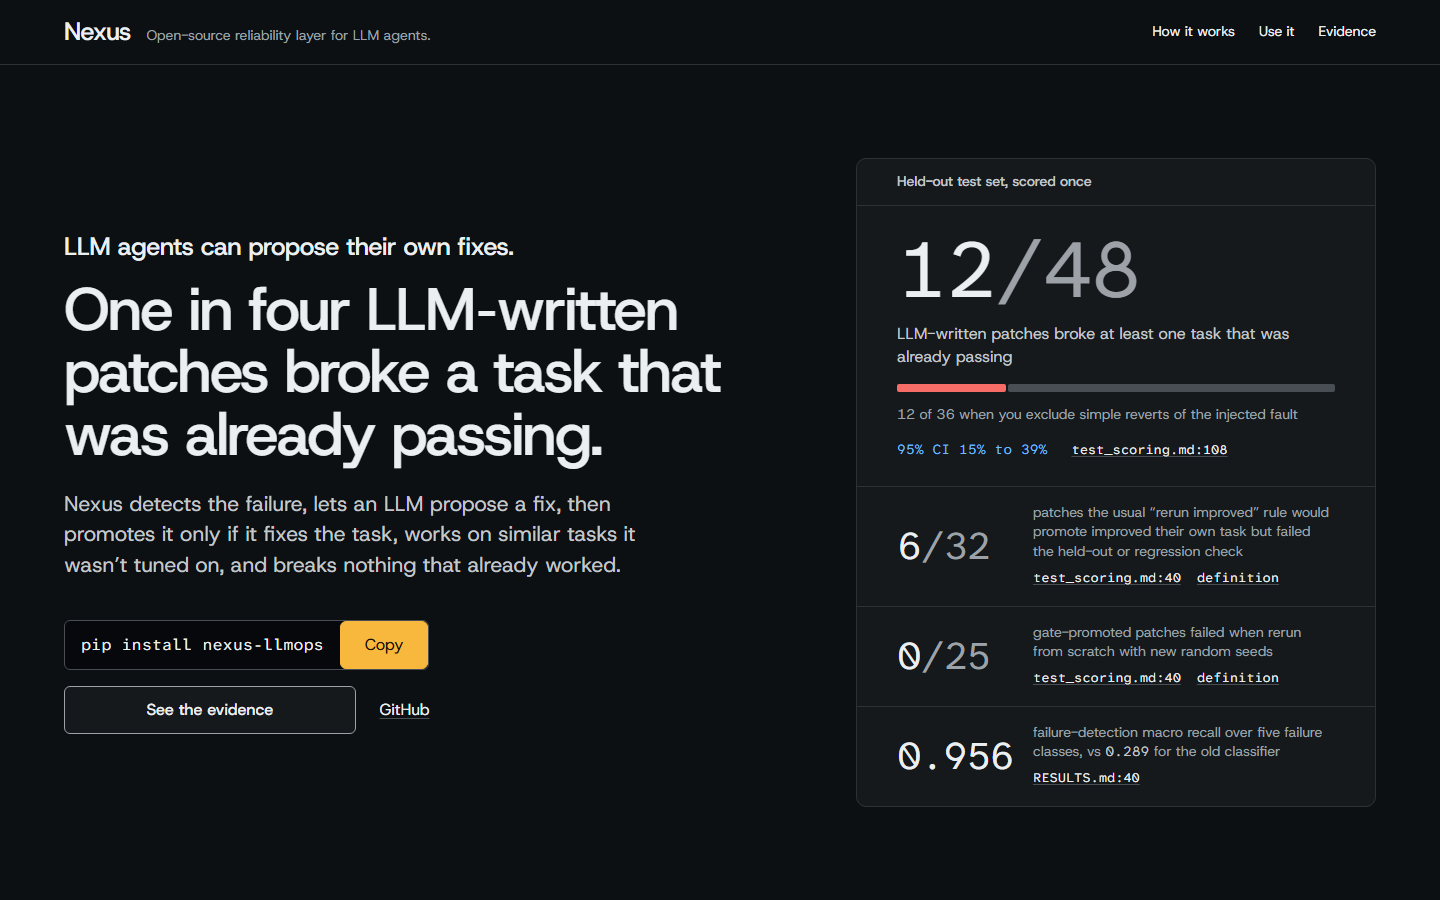
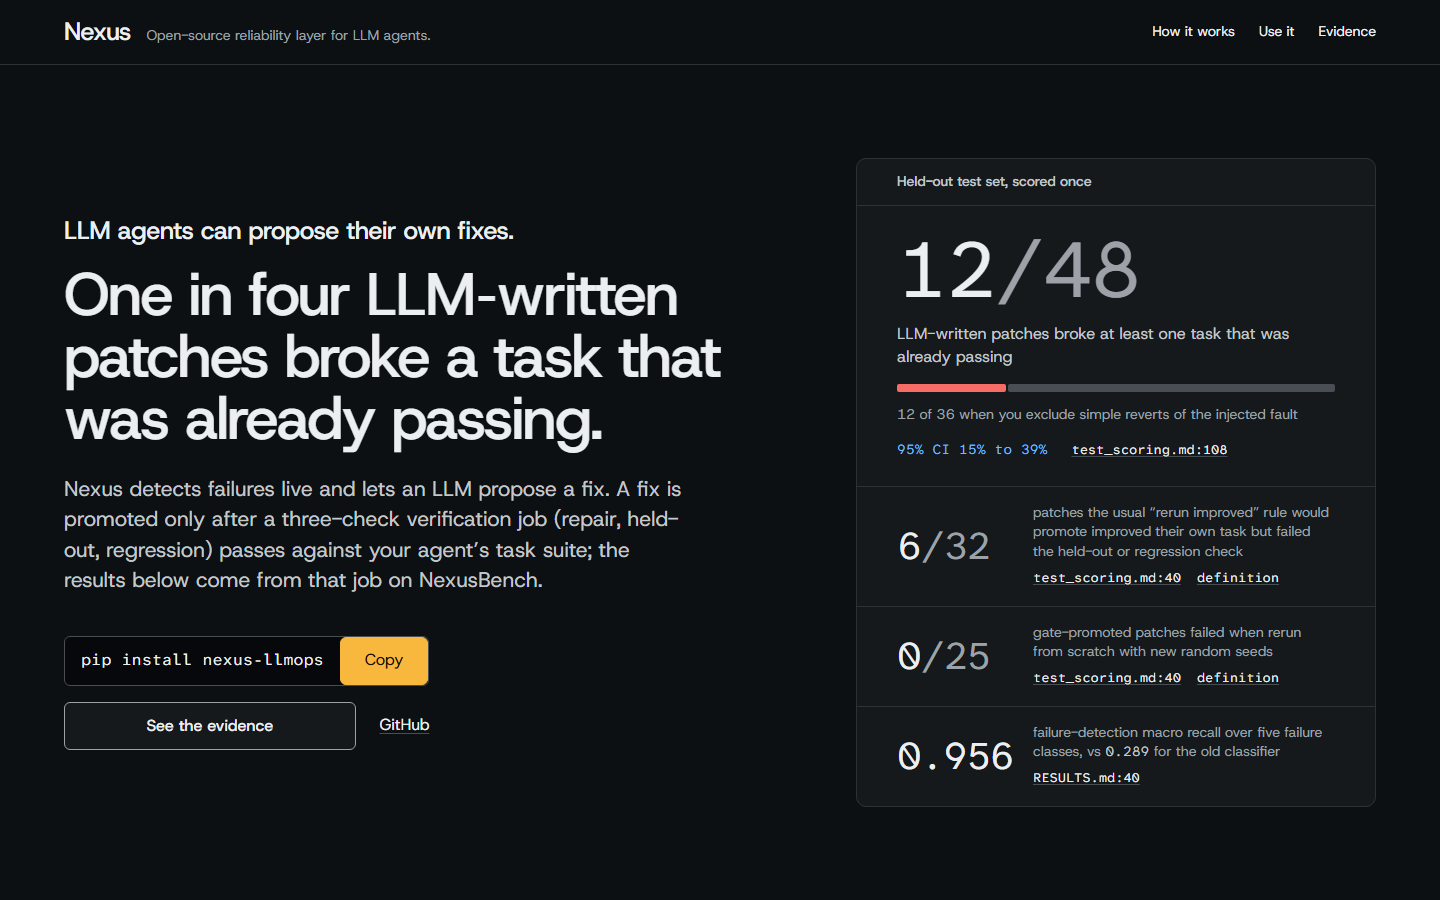
docs(media): GIF and screenshots from main; frozen check refuses only on main; deploy record
- docs/assets/nexus-demo.gif re-recorded from the local replay build of main (60 s scroll: hero,
  how it works, finding, walkthrough, use it; 1280x800 at 10 fps, encoded 720 px wide, 6 fps,
  48 colours, no dither): 4.20 MB. nexus-hero.png and nexus-walkthrough.png retaken from the same
  build (1440 wide, same sizes as before). README GIF alt text updated.
- scripts/phase6/check_frozen.py: the branch allowlist is replaced by one rule, refuse on main
  (any other branch, or a detached HEAD, may run it); frozen-path and content checks unchanged.
  tests/unit/phase6/test_check_frozen_branch.py covers the rule and that main() stops before any
  frozen check when on main.
- reports/phase6/release.md: the post-PR #7 production deploy (commit, deployment, checks) and a
  correction: both deploys used a git archive export with core.autocrlf, so the served replay.json
  ends in CRLF; its JSON content matches main but it is not byte-identical to the committed blob.

Changed region(s): [[0.0312, 0.2489, 0.5, 0.6533], [0.0312, 0.6844, 0.3125, 0.8089], [0.0938, 0.7778, 0.1875, 0.84]]

diff --git a/tests/unit/phase6/test_check_frozen_branch.py b/tests/unit/phase6/test_check_frozen_branch.py
@@ -1,0 +1,38 @@
+"""scripts/phase6/check_frozen.py refuses only on main; any other branch may run the frozen check."""
+
+from __future__ import annotations
+
+import sys
+from pathlib import Path
+
+import pytest
+
+ROOT = Path(__file__).resolve().parents[3]
+sys.path.insert(0, str(ROOT))
+from scripts.phase6 import check_frozen  # noqa: E402
+
+
+def test_refuses_on_main():
+    with pytest.raises(RuntimeError, match="not on main"):
+        check_frozen.check_branch("main")
+
+
+@pytest.mark.parametrize("branch", ["phase-6-demo", "media-refresh", "feature/main-docs", "mainline", ""])
+def test_allows_any_other_branch_and_detached_head(branch):
+    check_frozen.check_branch(branch)  # no exception
+
+
+def test_main_runs_the_branch_rule_before_any_frozen_check(monkeypatch):
+    """main() checks the branch first: on main it stops before touching the frozen tag."""
+    calls = []
+
+    def fake_git(*args):
+        calls.append(args)
+        if args[:2] == ("branch", "--show-current"):
+            return b"main\n"
+        raise AssertionError(f"frozen checks ran on main: git {args}")
+
+    monkeypatch.setattr(check_frozen, "git", fake_git)
+    with pytest.raises(RuntimeError, match="not on main"):
+        check_frozen.main()
+    assert calls == [("branch", "--show-current")]

diff --git a/scripts/phase6/check_frozen.py b/scripts/phase6/check_frozen.py
@@ -8,11 +8,17 @@ sys.path.insert(0, str(ROOT))
 from scripts.phase5.check_frozen import PATHS, TAG, git  # noqa: E402
 
 
+def check_branch(branch: str) -> None:
+    """Refuse only on main: work happens on a branch and reaches main through a PR.
+
+    Any other branch (and a detached HEAD, reported as "") is allowed.
+    """
+    if branch == "main":
+        raise RuntimeError("Run the Phase 6 frozen check on a working branch, not on main")
+
+
 def main():
-    # Phase 6 branches: the demo branch and the follow-up PR branches built on it.
-    branch = git("branch", "--show-current").decode().strip()
-    if branch not in ("phase-6-demo", "post-release-polish", "diagram-redo"):
-        raise RuntimeError(f"Phase 6 must run on a Phase 6 branch, not {branch!r}")
+    check_branch(git("branch", "--show-current").decode().strip())
     git("merge-base", "--is-ancestor", TAG, "HEAD")
     print(f"Frozen reference: {TAG}")
     tree = git("ls-tree", "-r", "--name-only", TAG, "--",

diff --git a/reports/phase6/release.md b/reports/phase6/release.md
@@ -94,3 +94,31 @@ committed) in `data/phase6/runs/scratch/demo/prod/` (11 section shots and one fu
 
 Console errors or warnings: none. Failed or 4xx/5xx requests: none. Requests to any host other than
 `nexus-llmops.vercel.app`: none.
+
+## Redeploy after PR #7 (2026-11-13)
+
+Approved by Sankalp: one Vercel production deploy of `dashboard/` from `main` after the PR #7 merge.
+
+- Source: `main` at `8ad7e9ee2f39344ac84bfaf207f54db9147fb219` (merge of PR #7); CI on that commit green
+  (test, integration: [run 43524402470](https://github.com/sankalp-rajeev/Nexus/actions/runs/43524402470)).
+- Built from a `git archive` export of `dashboard/` at that commit plus the existing Vercel project link, so
+  untracked local folders (`.hallmark/`, `.impeccable/`, `.diagram-work/`) were not uploaded.
+- `vercel deploy --prod` to project `nexus-demo`: deployment `dpl_3gPAzWJRzaJwrCH5H9FSzqdTvnAF`,
+  `https://nexus-demo-9wyf7y8nf-sankalp-rajeevs-projects.vercel.app`, target production, Ready. The project domain
+  `nexus-llmops.vercel.app` follows production and points at it (no alias change needed).
+- https://nexus-llmops.vercel.app returns 200. The deployed bundle carries the new lede ("Nexus detects failures
+  live…"), the story diagram (horizontal SVG from 1024 px, vertical below; checked in the screenshots), the
+  "What it costs to run" section and the "View full diagram" link; `/nexus-architecture-dark.png` is
+  byte-identical to `main`.
+- `/replay.json`: same JSON content as `main`, but **not byte-identical**: the served file ends in CRLF
+  (396,896 bytes) where the committed blob ends in LF (396,895 bytes). Cause: `git archive` on this Windows
+  checkout applies `core.autocrlf=true` to text files. A redeploy from an export made with
+  `git -c core.autocrlf=false archive` would fix it; not done, as only one deploy was approved.
+- Screenshot and console check (headless Edge, 1440/768/390, outputs in `data/phase6/runs/scratch/demo/prod3/`,
+  not committed): fonts loaded, no horizontal overflow, no element wider than the viewport, no console errors or
+  warnings, no failed or 4xx/5xx requests, no requests to any other host.
+
+**Correction to the 0.1.0 deploy above.** Its `replay.json` check compared the served file with the Windows
+working copy (CRLF), not with the committed blob, and that deploy used the same `git archive` export, so its
+served `replay.json` most likely also ended in CRLF. "Byte-identical" there means identical to the working copy;
+the JSON content matched.

diff --git a/README.md b/README.md
@@ -8,7 +8,7 @@ against your agent's task suite; the results below come from that job on NexusBe
 - **SDK:** [`nexus-llmops` on PyPI](https://pypi.org/project/nexus-llmops/): `pip install nexus-llmops`
 - **Every number below** links to the committed file and line it comes from. [RESULTS.md](RESULTS.md) has all of them.
 
-![A one-minute scroll through the demo page: the finding, a recorded heal step by step, and how to use it](docs/assets/nexus-demo.gif)
+![A one-minute scroll through the demo page: the headline result, how a fix is verified, the finding, a recorded heal step by step, and how to use it](docs/assets/nexus-demo.gif)
 
 ## The problem
 
